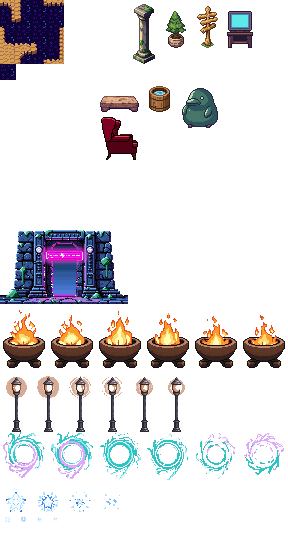
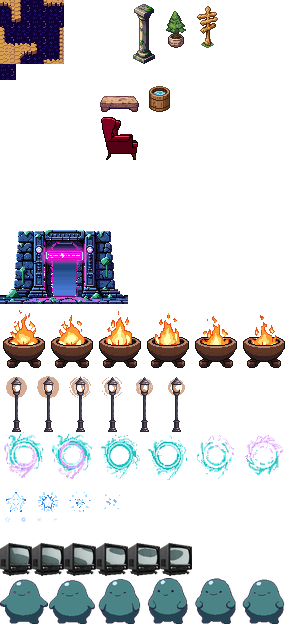
feat(space): animate the Matrix TV static and the breathing Nu
Bring the last two static props to life with real PixelLab animations:
- The Matrix-nook CRT crackles with off-air black-and-white static; the
  body stays fixed, only the screen snow shifts.
- The Nu idly breathes, gently squishing and bobbing in place.

Also fix the animated-prop packing to scale each object down to fit its
w×h block (preserving aspect) instead of cropping content away — the new
96px objects are larger than their tiles. Backward-compatible: the fire,
lamp, portal, and stars already fit, so their packing is unchanged.

diff --git a/virtual.space/tools/author_scene.py b/virtual.space/tools/author_scene.py
@@ -75,6 +75,9 @@ ANIM_PROPS = {
     "eot_star": ("star", 0, 30, 2, 2, 1400),
     # The same twinkle art, shrunk to a faint pinpoint: the deep-sky field.
     "eot_star_far": ("star", 0, 32, 1, 1, 1600),
+    # The Matrix nook TV crackling with off-air static, and the Nu breathing.
+    "eot_tv": ("tv", 0, 33, 2, 3, 420),
+    "eot_nu": ("nu", 0, 36, 3, 3, 1800),
 }
 
 # Animated tiles whose frames are scaled down to a small point (px) centred in
@@ -95,7 +98,7 @@ def _compose_sheet():
     wang = Image.open(os.path.join(SRC, "floor_wang.png")).convert("RGBA")
     lut = json.load(open(os.path.join(SRC, "wang_lut.json")))
     cols = 18
-    sheet = Image.new("RGBA", (cols * T, 34 * T), (0, 0, 0, 0))
+    sheet = Image.new("RGBA", (cols * T, 40 * T), (0, 0, 0, 0))
     vocab = {}
     sheet.alpha_composite(wang, (0, 0))
     for combo, (x, y) in lut.items():
@@ -111,8 +114,8 @@ def _compose_sheet():
         "eot_pillar": ("pillar.png", 8, 0, 2, 4),
         "eot_sapling": ("sapling.png", 10, 0, 2, 3), "eot_signpost": ("signpost.png", 12, 0, 2, 3),
         "eot_bench": ("bench.png", 6, 5, 3, 2), "eot_bucket": ("bucket.png", 9, 5, 2, 2),
-        "eot_tv": ("tv.png", 14, 0, 2, 3), "eot_armchair": ("armchair_side.png", 6, 7, 3, 3),
-        "eot_nu": ("nu.png", 11, 5, 3, 3), "eot_artifact": ("artifact2.png", 0, 14, 8, 5),
+        "eot_armchair": ("armchair_side.png", 6, 7, 3, 3),
+        "eot_artifact": ("artifact2.png", 0, 14, 8, 5),
     }
     for name, (fn, col, row, w, h) in props.items():
         im = Image.open(os.path.join(SRC, fn)).convert("RGBA")
@@ -149,25 +152,22 @@ def _compose_sheet():
         boxes = [im.getbbox() or (0, 0, im.width, im.height) for im in ims]
         union = (min(b[0] for b in boxes), min(b[1] for b in boxes),
                  max(b[2] for b in boxes), max(b[3] for b in boxes))
-        # Same crop window + same in-block offset for every frame → stable base.
-        cw, ch = union[2] - union[0], union[3] - union[1]
-        ox = max(0, (cw - w * T) // 2)
-        oy = max(0, ch - h * T)
-        dx = (w * T - min(cw, w * T)) // 2
+        # Crop every frame to ONE shared window (the union bbox) so the moving
+        # parts animate while the base stays pinned; then scale the whole object
+        # to fit its w×h block (never crop content away). SCALE_TO_FIT shrinks to
+        # a tiny centred pinpoint instead (the deep-sky stars).
+        bw, bh = w * T, h * T
+        uw, uh = union[2] - union[0], union[3] - union[1]
         fit = SCALE_TO_FIT.get(name)
+        scale = fit / max(uw, uh) if fit else min(1.0, bw / uw, bh / uh)
         for i, im in enumerate(ims):
-            crop = im.crop((union[0] + ox, union[1] + oy,
-                            min(union[0] + ox + w * T, union[2]), union[3]))
-            if fit:
-                scale = fit / max(crop.width, crop.height)
-                crop = crop.resize((max(1, round(crop.width * scale)),
-                                    max(1, round(crop.height * scale))), Image.LANCZOS)
-            block = Image.new("RGBA", (w * T, h * T), (0, 0, 0, 0))
-            if fit:  # centre the pinpoint in its tile
-                block.alpha_composite(crop, ((w * T - crop.width) // 2,
-                                             (h * T - crop.height) // 2))
-            else:  # bottom-anchor like a standing prop
-                block.alpha_composite(crop, (dx, h * T - crop.height))
+            crop = im.crop(union)
+            if scale != 1.0:
+                crop = crop.resize((max(1, round(uw * scale)),
+                                    max(1, round(uh * scale))), Image.LANCZOS)
+            block = Image.new("RGBA", (bw, bh), (0, 0, 0, 0))
+            dy = (bh - crop.height) // 2 if fit else bh - crop.height
+            block.alpha_composite(crop, ((bw - crop.width) // 2, dy))
             sheet.alpha_composite(block, ((col + i * w) * T, row * T))
         vocab[name] = {"col": col, "row": row, "w": w, "h": h,
                        "frames": len(ims), "period_ms": period}
